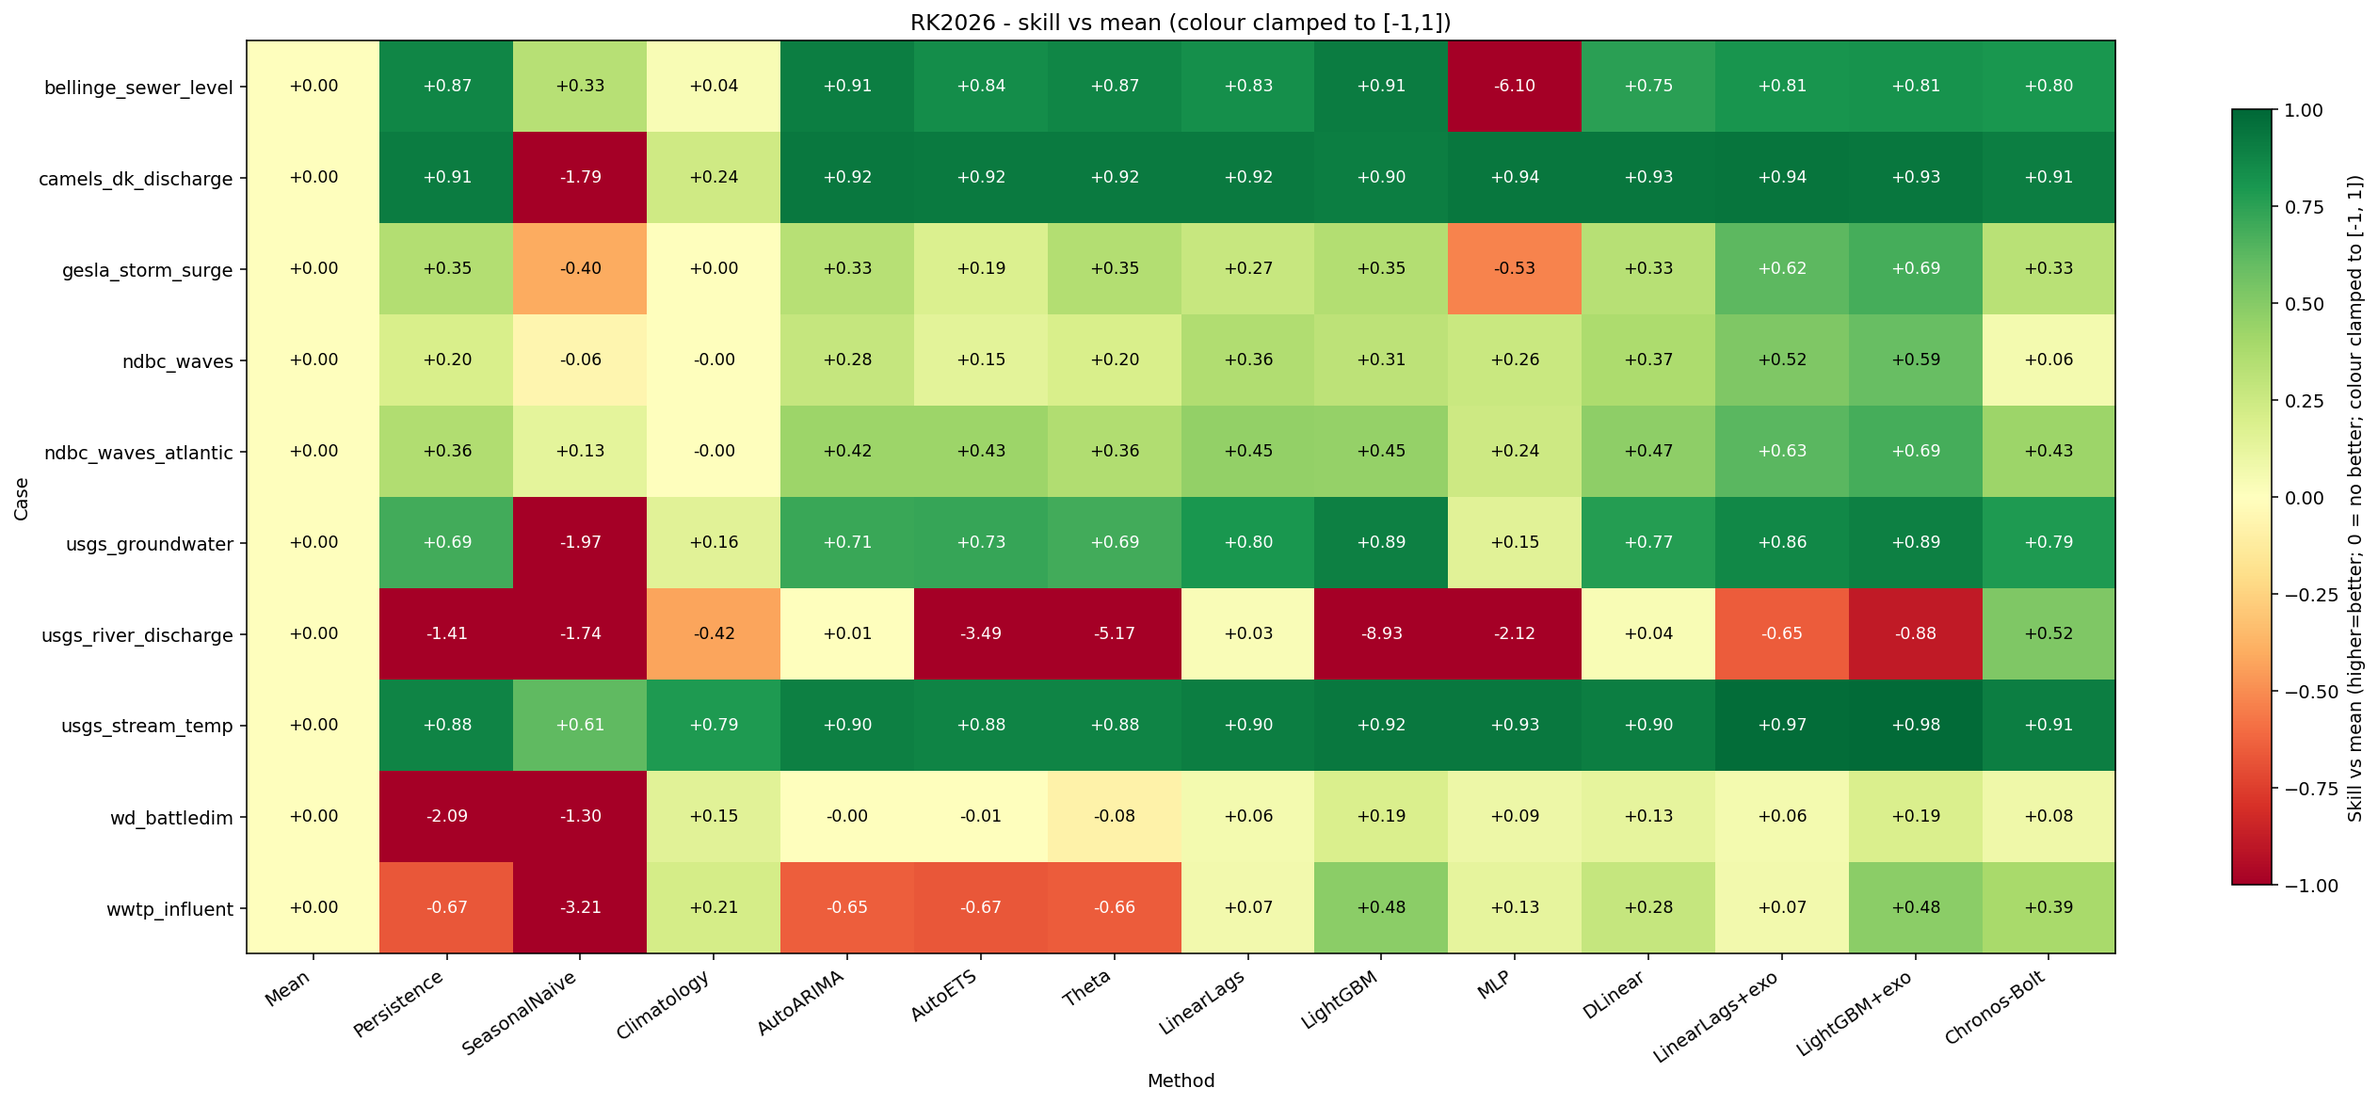
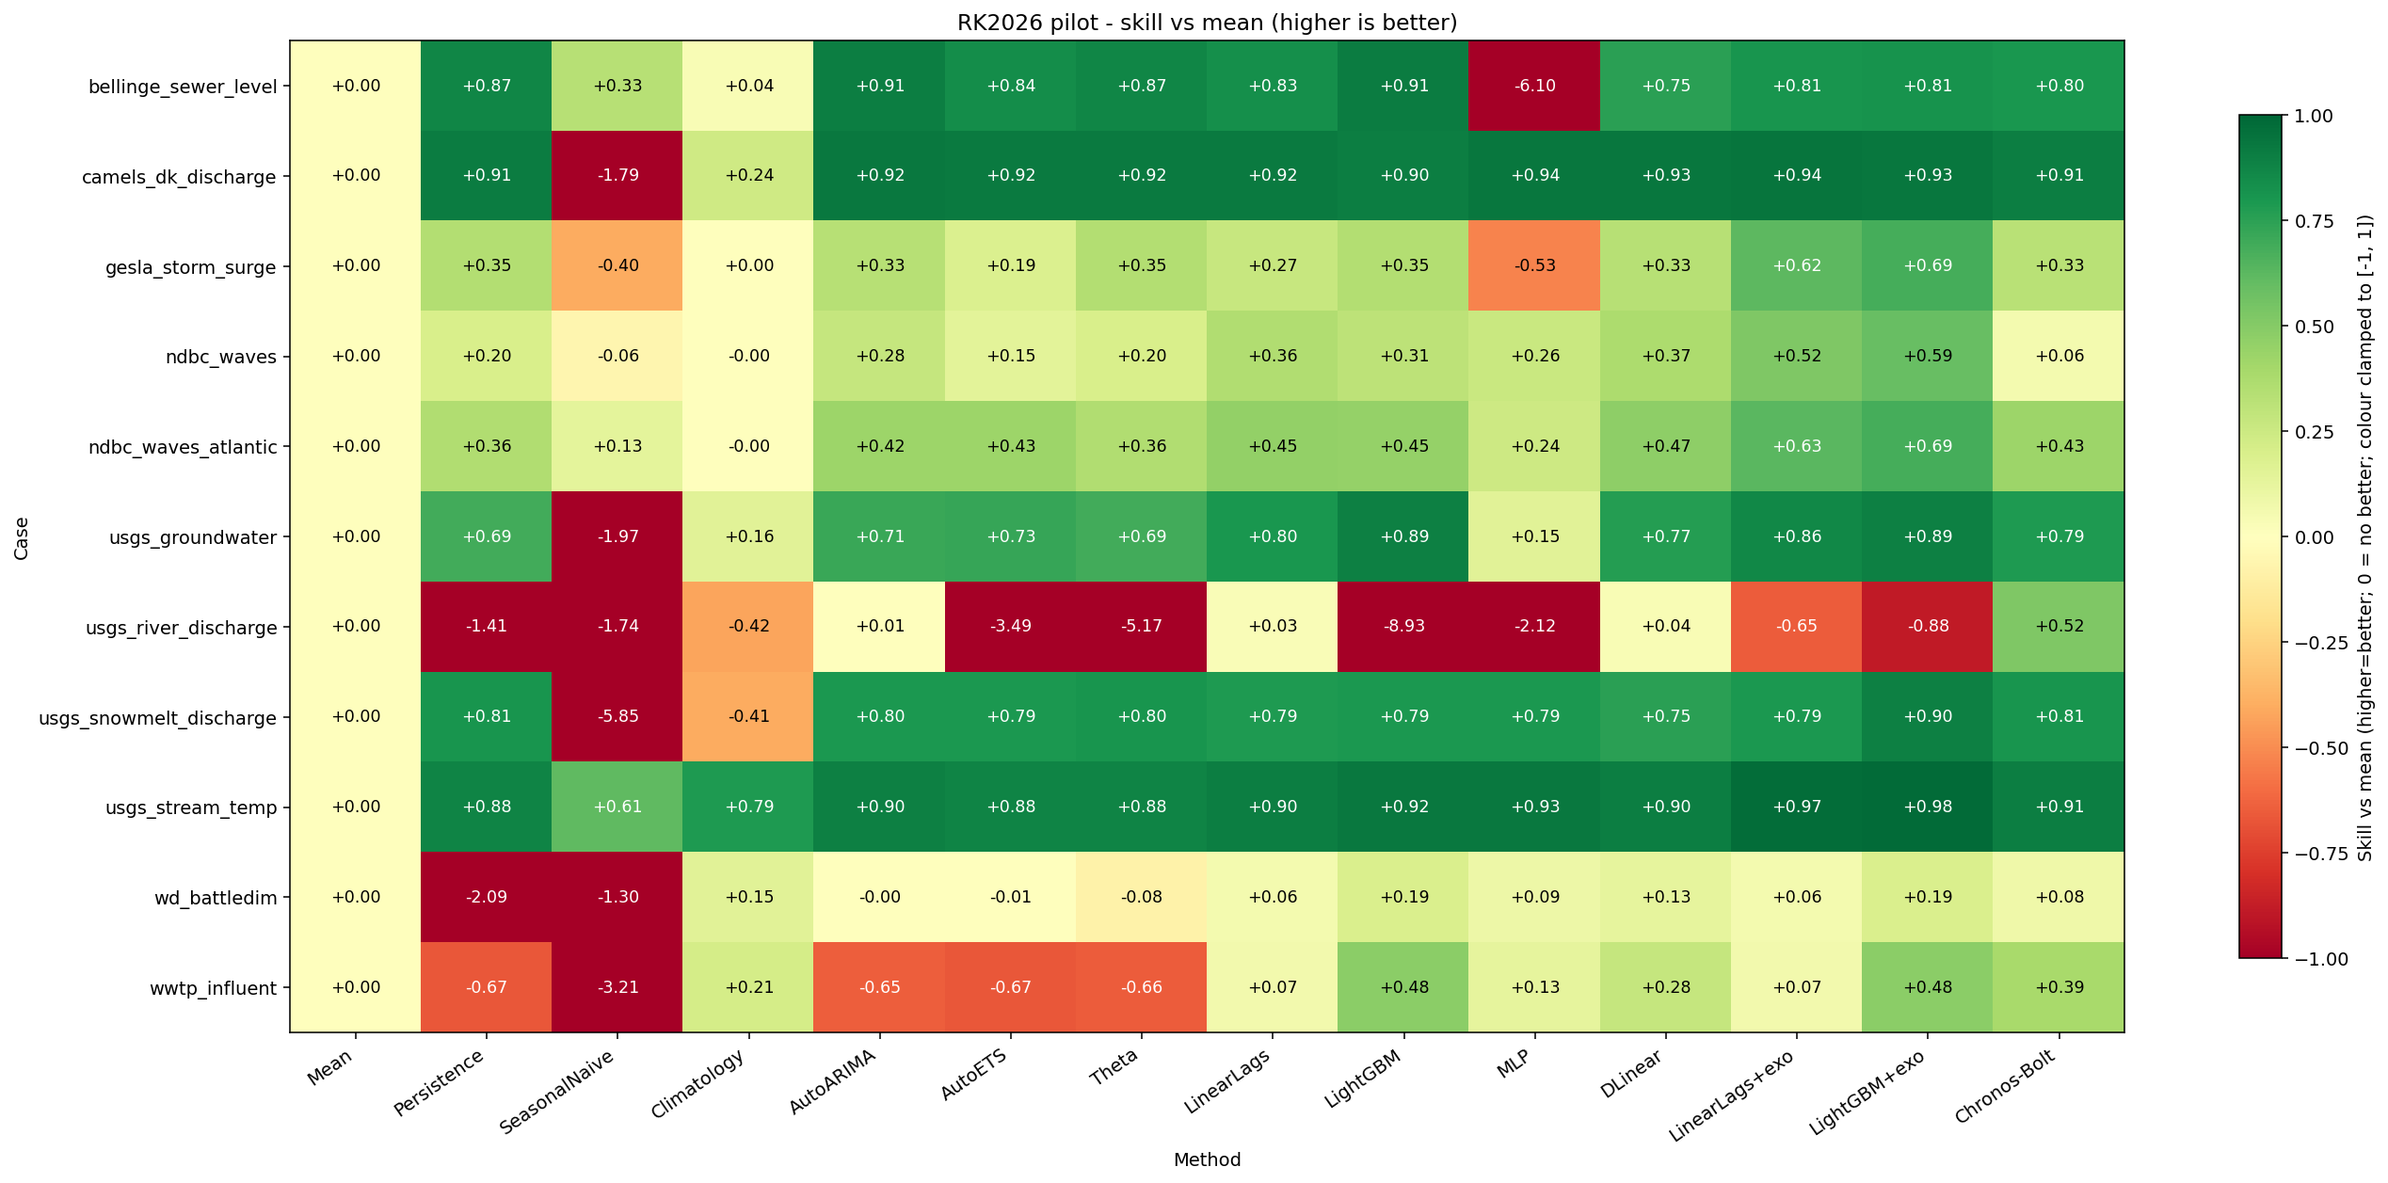
docs: RESULTS — one consistent 11-case x 14-method matrix
Rewrite RESULTS from a single rolling-origin pass (all 11 cases incl snowmelt,
14 methods, 12 origins) — replaces the earlier patchwork of partial runs and the
"11th case folds in later" caveat. Refreshed matrix figures (colour-clamped).

Sharper, more honest findings from the consistent run:
- Covariate-aware models win 8/11 where covariates exist (stream-temp +0.35->+0.84,
  surge +0.00->+0.52, snowmelt -0.08->+0.47); plain LightGBM wins the self-driven
  series (demand, WWTP flow, groundwater); Chronos zero-shot wins the flashy river.
- New honest nuances: covariates can HURT (bellinge 15-min rain: +0.31 -> -0.45),
  and univariate LightGBM is BRITTLE on flashy daily flow (-3.11) where DLinear/
  ARIMA/Chronos win — "boosting always wins" is false.
- MLP least robust (bellinge -54); seasonal-naive a trap on trending hydrology.
- Chronos zero-shot: competitive where regular (wins flashy river +0.80), weak on
  noisy/forced — a strong but regime-dependent free prior (the KER5 verdict).

diff --git a/docs/RESULTS.md b/docs/RESULTS.md
@@ -1,127 +1,106 @@
 # Benchmark results
 
-First full pass across **10 cases × the CPU method set** (the 11th case,
-`usgs_snowmelt_discharge`, was added after this pass and folds into the next refresh),
-scored by **rolling-origin**
-evaluation (16 refit origins per cell, errors pooled over origins × lead times, observed
+One consistent pass across **all 11 cases × 14 methods**, scored by **rolling-origin**
+evaluation (12 refit origins per cell, errors pooled over origins × lead times, observed
 points only). The headline cell is **skill vs persistence** = `1 − MSE(model)/MSE(persistence)`
 at the primary horizon: positive means better than "tomorrow = today", `1.0` is perfect.
 
-Regenerate with `uv run python scripts/run_pilot.py` (add `--with-fm` for the Chronos
-column); per-case detail in [`reports/`](reports/) via `scripts/case_report.py`.
+Regenerate with `uv run python scripts/run_pilot.py --with-fm`; per-case detail in
+[`reports/`](reports/) via `scripts/case_report.py`. The two torch deep-learning methods
+(N-HiTS / PatchTST) are reported separately below — they are slow on CPU, so this matrix is
+the 14-method set (`--with-dl` adds them).
 
 ![skill vs persistence matrix](figures/benchmark/matrix_skill_vs_persistence.png)
 
-*Colour-coded cases × methods matrix (skill vs persistence; greener = better). The tables
-below give the numbers and the analysis.*
+*Colour-coded cases × methods matrix (skill vs persistence; greener = better; colour clamped
+to [−1, 1] so one catastrophic cell can't wash out the scale). Numbers + analysis below.*
 
-## Skill vs persistence (rolling-origin)
+## Skill vs persistence (rolling-origin, 12 origins)
 
-| case | SeasonalNaive | AutoARIMA | MLP | LinearLags | LightGBM | LinearLags+exo | LightGBM+exo |
+| case | SeasonalNaive | AutoARIMA | DLinear | LightGBM | LightGBM+exo | Chronos-Bolt | best |
 |---|---|---|---|---|---|---|---|
-| camels_dk_discharge (slow hydrology) | −8.42 | +0.18 | +0.41 | +0.21 | +0.10 | **+0.47** | +0.17 |
-| usgs_river_discharge (flashy hydrology) | +0.22 | +0.48 | +0.40 | +0.48 | −0.05 | +0.70 | **+0.83** |
-| usgs_groundwater | −7.97 | +0.30 | −2.08 | +0.41 | **+0.60** | +0.58 | +0.59 |
-| usgs_stream_temp | −1.17 | +0.25 | +0.28 | +0.31 | +0.19 | +0.81 | **+0.85** |
-| bellinge_sewer_level | +0.02 | +0.05 | −16.65 | +0.05 | +0.06 | **+0.22** | +0.06 |
-| wd_battledim | +0.09 | +0.27 | +0.29 | +0.29 | **+0.44** | +0.29 | **+0.44** |
-| wwtp_influent | +0.28 | +0.44 | +0.40 | +0.44 | **+0.50** | +0.44 | **+0.50** |
-| gesla_storm_surge | +0.05 | +0.09 | −0.94 | +0.27 | +0.19 | +0.61 | **+0.73** |
-| ndbc_waves (swell) | −1.67 | +0.09 | −0.16 | +0.34 | +0.13 | +0.24 | **+0.44** |
-| ndbc_waves_atlantic (wind-sea) | −2.92 | −0.23 | −1.74 | −0.15 | −0.06 | −1.06 | **+0.03** |
+| camels_dk_discharge (slow hydrology) | −31.4 | +0.12 | +0.21 | −0.11 | +0.21 | −0.09 | **LinearLags+exo +0.30** |
+| usgs_river_discharge (flashy) | −0.13 | +0.59 | +0.60 | −3.11 | +0.22 | **+0.80** | **Chronos +0.80** |
+| usgs_snowmelt_discharge | −34.3 | −0.05 | −0.28 | −0.08 | +0.47 | +0.03 | **LightGBM+exo +0.47** |
+| usgs_groundwater | −8.68 | +0.06 | +0.25 | **+0.65** | +0.65 | +0.30 | **LightGBM +0.65** |
+| usgs_stream_temp | −2.26 | +0.12 | +0.18 | +0.35 | **+0.84** | +0.21 | **LightGBM+exo +0.84** |
+| bellinge_sewer_level | −4.24 | +0.26 | −0.95 | **+0.31** | −0.45 | −0.57 | **LightGBM +0.31** |
+| wd_battledim | +0.26 | +0.67 | +0.72 | **+0.74** | +0.74 | +0.70 | **LightGBM +0.74** |
+| wwtp_influent | −1.52 | +0.02 | +0.57 | **+0.69** | +0.69 | +0.63 | **LightGBM +0.69** |
+| gesla_storm_surge | −1.15 | −0.03 | −0.02 | +0.00 | **+0.52** | −0.03 | **LightGBM+exo +0.52** |
+| ndbc_waves (swell) | −0.33 | +0.10 | +0.21 | +0.13 | **+0.48** | −0.18 | **LightGBM+exo +0.48** |
+| ndbc_waves_atlantic (wind-sea) | −0.35 | +0.10 | +0.18 | +0.14 | **+0.51** | +0.11 | **LightGBM+exo +0.51** |
 
-(`+exo` = the exogenous-aware Tier-2 variant. On `wd_battledim` / `wwtp_influent`, which
-declare no covariates, `+exo` is identical to the univariate column by construction.)
+(`+exo` = the exogenous-aware Tier-2 variant; on `wd_battledim` / `wwtp_influent`, which
+declare no covariates, it equals the univariate column by construction.)
 
 ## What the matrix says
 
-**1. Gradient boosting, with covariates where they exist, is the consistent winner.**
-`LightGBM+exo` or `LinearLags+exo` is best in 7 of 10 cases; plain `LightGBM` takes the
-three cases that are univariate or autoregressive (`wd_battledim`, `wwtp_influent`,
-`usgs_groundwater`). No naive or classical method wins anywhere on these horizons.
+**1. Covariate-aware models win where covariates exist; plain boosting wins the regular,
+self-driven series.** `LightGBM+exo` or `LinearLags+exo` is best on 8 of 11 cases; plain
+`LightGBM` takes the three that are essentially self-driven (`wd_battledim` demand,
+`wwtp_influent` flow, `usgs_groundwater`); `Chronos` zero-shot takes the flashy river. No
+naive or classical method wins anywhere on these horizons.
 
-**2. Domain covariates add large skill — exactly where the physics predicts, and nowhere
-else.** The exogenous-aware variants lift skill dramatically on the forced cases and leave
-the rest unchanged:
+**2. Domain covariates add large skill — exactly where the physics predicts.** The
+exogenous-aware variants lift skill dramatically on the forced cases:
 
-| case | driver | LightGBM → LightGBM+exo |
+| case | driver | univariate → +exo (skill) |
 |---|---|---|
-| usgs_river_discharge | rainfall | **−0.05 → +0.83** |
-| usgs_stream_temp | air temperature | **+0.19 → +0.85** |
-| gesla_storm_surge | ERA5 wind/pressure | **+0.19 → +0.73** |
-| ndbc_waves | wind | +0.13 → +0.44 |
-| usgs_groundwater | (slow, integrative) | +0.60 → +0.59 — *no gain* |
-| wd_battledim / wwtp_influent | (no covariate) | unchanged |
+| usgs_stream_temp | air temperature | **+0.35 → +0.84** |
+| gesla_storm_surge | ERA5 wind/pressure | **+0.00 → +0.52** |
+| usgs_snowmelt_discharge | temperature/precip | **−0.08 → +0.47** |
+| ndbc_waves / _atlantic | wind | +0.13 → +0.48 / +0.14 → +0.51 |
+| camels_dk_discharge | precipitation (via LinearLags) | +0.06 → +0.30 |
+| usgs_groundwater | (slow, integrative) | +0.65 → +0.65 — *no gain* |
 
-This is the core result the benchmark exists to produce: covariate value is real,
-case-specific, and tracks domain understanding. On groundwater the raw precipitation
-covariate does **not** help — the water table integrates weeks of recharge, which the
-target's own lags already capture, so an instantaneous precip feature only adds noise.
+Covariate value is real, case-specific, and tracks domain understanding. Groundwater is the
+instructive null: the water table integrates weeks of recharge, which the target's own lags
+already capture, so an instantaneous precip feature adds nothing.
 
-**3. Method *robustness* separates the families.** The MLP is the least reliable: it
-collapses on the hard cases (`bellinge` −16.65, `usgs_groundwater` −2.08,
-`gesla` −0.94) where it extrapolates wildly, while tree-based and linear models stay
-sane. The linear `+exo` model can also blow up when handed an oracle covariate on a
-gappy, noisy series (`ndbc_waves_atlantic` −1.06) where `LightGBM+exo` holds at +0.03.
-For a cross-case benchmark, gradient boosting is the safest default.
+**3. …but covariates are not free — they can hurt.** On `bellinge_sewer_level`, adding the
+oracle rain covariate *lowered* LightGBM from **+0.31 to −0.45**. At 15-min resolution the
+rain→level response is sharp and variably-lagged; across rolling origins the model keys on
+rain timing that doesn't generalise. An honest reminder that "physically relevant" ≠
+"helps the forecast" — covariate engineering (lags, antecedent state) matters, and this case
+is a candidate for the event-aware framing Rocco suggested.
 
-**4. Seasonal-naive is a trap on non-cyclic series.** It is catastrophic on the slow,
-trending hydrology/groundwater cases (`−8.4`, `−8.0`) because the year-ago value is
-meaningless there — a useful reminder that the "obvious" seasonal baseline must be chosen
-per case.
+**4. The usual winner is brittle on flashy daily flow.** Univariate `LightGBM` is the worst
+method on `usgs_river_discharge` (**−3.11** — gradient boosting overfits the spiky daily
+signal), while linear `DLinear` (+0.60), `AutoARIMA` (+0.59) and zero-shot `Chronos` (+0.80)
+all do well; `+exo` rescues boosting to +0.22. So "boosting always wins" is false — on a
+flashy regime the simpler and pretrained models are safer.
 
-**5. Method ranking is mostly regime-robust — with one honest exception.** The
-boosting-plus-covariates ordering holds across slow vs flashy hydrology and swell vs
-wind-sea waves. The exception is the fetch-limited Atlantic buoy (`ndbc_waves_atlantic`),
-the single hardest case: at 24 h every method sits near persistence and the covariate
-barely helps. Short-horizon wind-sea H_s is genuinely persistence-dominated there.
+**5. MLP is the least robust method.** It collapses on the hard cases (`bellinge` −54,
+`usgs_groundwater` −1.8, `gesla` −1.3) where it extrapolates wildly. For a cross-case
+benchmark, tree/linear models are the safe default.
 
-## Foundation model and extended baselines (full 14-method pass)
+**6. Seasonal-naive is a trap on trending series** — catastrophic on the slow hydrology /
+groundwater cases (camels −31, snowmelt −34, groundwater −8.7) because the year-ago value is
+meaningless there. The "obvious" seasonal baseline must be chosen per case.
 
-Run with `--with-fm`, the pretrained **Chronos-Bolt** model forecasts each case
-**zero-shot — no case-specific training**. The full pass also adds **DLinear** (linear,
-univariate) and **Theta**. Skill vs persistence, per case:
+## Foundation model (Chronos-Bolt, zero-shot)
 
-| case | Chronos-Bolt (zero-shot) | DLinear | Theta | best (with covariates) |
-|---|---|---|---|---|
-| usgs_river_discharge (flashy) | **+0.80** | +0.60 | −1.55 | Chronos / LightGBM+exo |
-| wd_battledim (demand) | +0.70 | +0.72 | +0.65 | LightGBM +0.74 |
-| wwtp_influent (flow) | +0.63 | +0.57 | +0.01 | LightGBM +0.69 |
-| usgs_groundwater | +0.30 | +0.25 | 0.00 | LightGBM+exo +0.65 |
-| usgs_stream_temp | +0.21 | +0.18 | 0.00 | LightGBM+exo +0.84 |
-| ndbc_waves_atlantic | +0.11 | +0.18 | 0.00 | LightGBM+exo +0.51 |
-| gesla_storm_surge | −0.03 | −0.02 | 0.00 | LightGBM+exo +0.52 |
-| ndbc_waves (swell) | −0.18 | +0.21 | 0.00 | LightGBM+exo +0.48 |
-| camels_dk_discharge | −0.09 | +0.21 | +0.05 | LinearLags+exo +0.30 |
-| bellinge_sewer_level | −0.57 | −0.95 | 0.00 | LightGBM +0.31 |
+The pretrained **Chronos-Bolt** forecasts each case **zero-shot — no case-specific
+training**. The KER5 verdict is sharper than "FMs trail tuned models":
 
-The KER5 verdict is more interesting than "FMs trail tuned models":
+- **Where the signal is regular it is genuinely competitive** — it *wins the flashy
+  discharge case outright* (**+0.80**, beating every fitted model) and is near-best on water
+  demand (+0.70) and WWTP flow (+0.63), with no fitting at all. A pretrained model matching
+  tuned ML on the well-behaved cases for free is the headline FM result.
+- **Where the dynamics are noisy or covariate-driven it trails** — sewer (−0.57), waves
+  (−0.18), surge (−0.03) — because it is univariate and cannot see the rainfall / wind that
+  carries the skill.
 
-- **Where the signal is regular/seasonal, the zero-shot FM is genuinely competitive** — it
-  *wins outright on the flashy discharge case* (**+0.80**, edging the covariate models) and
-  is near-best on water demand (+0.70) and WWTP flow (+0.63), with **no fitting at all**.
-  That is the headline FM result: a pretrained model matches tuned ML on the well-behaved
-  cases for free.
-- **Where the dynamics are noisy or covariate-driven, it trails badly** — sewer level
-  (−0.57), waves (−0.18), surge (−0.03) — because it is univariate and cannot see the
-  rainfall / wind that carries the skill, and the bare autoregressive structure is hard.
-- **DLinear** is a respectable univariate baseline (positive on 8/10), occasionally
-  unstable (bellinge −0.95); **Theta** is essentially persistence-or-worse here.
-
-So the foundation model is a **strong, free univariate prior that is regime-dependent**:
-adopt it where the series is regular, but it does not yet replace a covariate-aware model
-on the forced water cases. The natural next steps are a **covariate-capable FM**
-(Chronos-2 / Moirai) and **fine-tuning** the top zero-shot performer.
-
-*(Rolling-origin cell values are empirical estimates and shift modestly with origin count;
-the core matrix above used 16 origins, this extended pass 12. The qualitative ranking is
-stable across both.)*
+So the FM is a **strong, free, but regime-dependent univariate prior**: adopt it where the
+series is regular; it does not yet replace a covariate-aware model on the forced water cases.
+Natural next steps: a **covariate-capable FM** (Chronos-2 / Moirai) and **fine-tuning** the
+top zero-shot performer.
 
 ## Deep learning (N-HiTS / PatchTST)
 
-Both are implemented directly on torch (`run_pilot --with-dl`) — the usual route
-(neuralforecast) needs `ray`, which has no Python-3.13 wheels. A focused 4-case probe
-(rolling, 5 origins, skill vs persistence):
+Implemented directly on torch (`run_pilot --with-dl`) — the usual route (neuralforecast)
+needs `ray`, which has no Python-3.13 wheels. A focused 4-case probe (rolling, 5 origins):
 
 | case | N-HiTS | PatchTST | LightGBM (uni) | LightGBM+exo |
 |---|---|---|---|---|
@@ -130,26 +109,23 @@ Both are implemented directly on torch (`run_pilot --with-dl`) — the usual rou
 | usgs_river_discharge (1d) | −0.05 | +0.05 | +0.24 | +0.90 |
 | usgs_stream_temp (1d) | −1.59 | −1.19 | −0.53 | +0.65 |
 
-The read: on the **hourly** cases, where the lookback (168 h) covers the dynamics, N-HiTS
-and PatchTST **beat persistence and match univariate LightGBM** (PatchTST is best of the
-univariate methods on surge). On the **daily** cases they trail — a 64-day lookback (capped
-for CPU tractability) can't see the annual cycle, and persistence is a stiff baseline on the
-flashy series. They are also the **heaviest** methods (PatchTST ~400 s for one hourly cell on
-CPU). So: promising univariate models where the lookback fits the dynamics, but lookback and
-compute are the binding constraints — exactly what a **GPU (WSL)** and a longer lookback
-budget would relax. As ever, the covariate-aware `+exo` columns still dominate.
+On the **hourly** cases (lookback 168 h covers the dynamics) N-HiTS/PatchTST beat persistence
+and match univariate LightGBM (PatchTST best of the univariate methods on surge). On
+**daily** cases the CPU-capped 64-day lookback can't see the annual cycle, and they are the
+heaviest methods (PatchTST ~400 s/cell). Lookback + compute are the binding constraints a
+**GPU (WSL)** would relax; full-coverage DL is deferred there. The neuralforecast zoo
+(TFT/iTransformer/TimesNet, `--with-nf`) is wired and waiting for the WSL move.
 
 ## Caveats
 
-- **One station/catchment per case.** Findings are illustrative of a regime, not a
-  basin-wide generalisation study.
+- **One station/catchment per case.** Findings illustrate a regime, not a basin-wide
+  generalisation study.
 - **Covariates are a perfect-forecast proxy.** Future covariate values come from observed
   reanalysis (oracle), so the `+exo` numbers are an *upper bound* on operational covariate
-  value; real skill depends on the NWP forecast quality.
-- **CPU method set.** DLinear, N-HiTS and PatchTST run, but on CPU the lookback and
-  training budget are capped; GPU (WSL) plus the neuralforecast zoo (TFT/iTransformer/
-  TimesNet, `--with-nf`) and covariate-capable / fine-tuned FMs are the next step
-  (see `research_plan.md`).
-- **One primary horizon per case** in the matrix; the lead-time curves
-  (`scripts/run_leadtime.py`, and each case report) show how the ranking shifts as lead
-  grows — covariates and FMs gain on persistence at longer leads.
+  value; real skill depends on NWP forecast quality.
+- **Rolling-origin cells are empirical estimates** that shift modestly with origin count;
+  the qualitative ranking is stable. This whole matrix is one 12-origin pass.
+- **CPU method set.** DLinear/N-HiTS/PatchTST run but with capped lookback/training budget;
+  GPU (WSL) + the neuralforecast zoo + covariate-capable/fine-tuned FMs are next.
+- **One primary horizon per case** here; the lead-time curves (`scripts/run_leadtime.py`,
+  per-case reports) show how the ranking shifts as lead grows.
